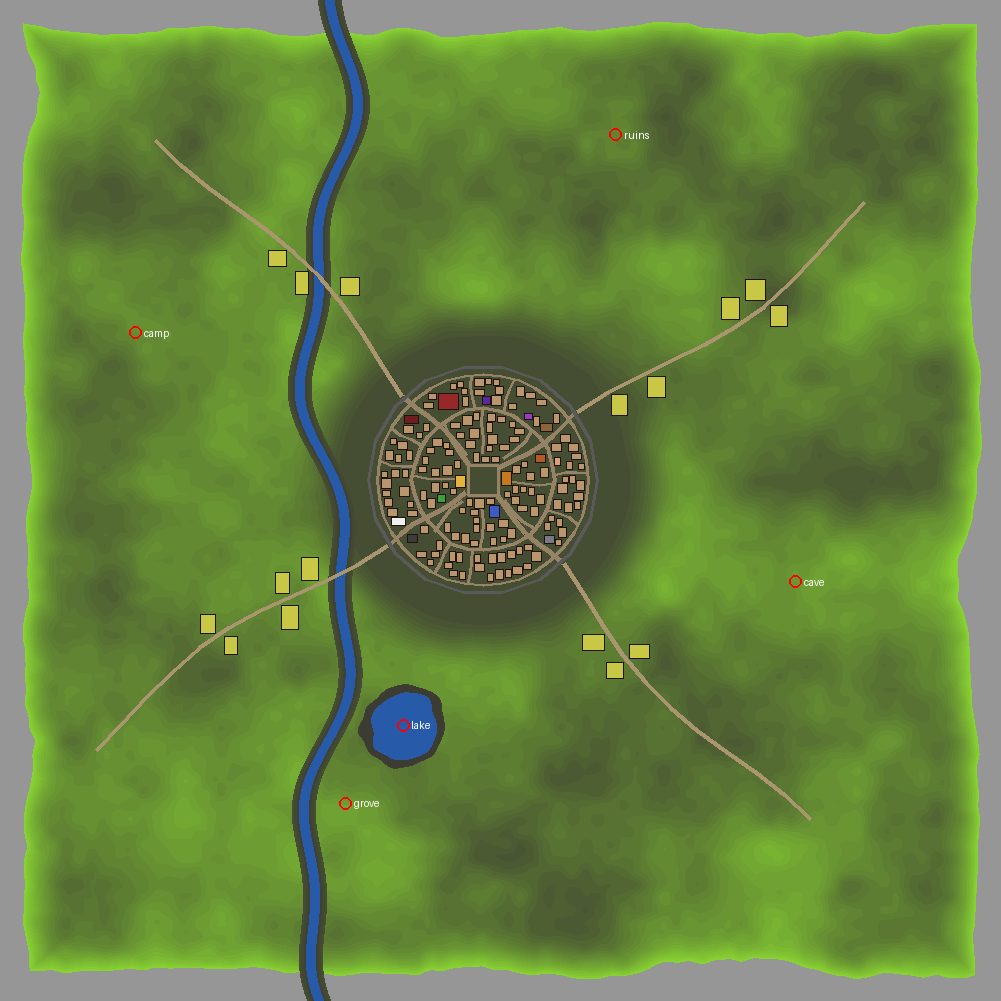
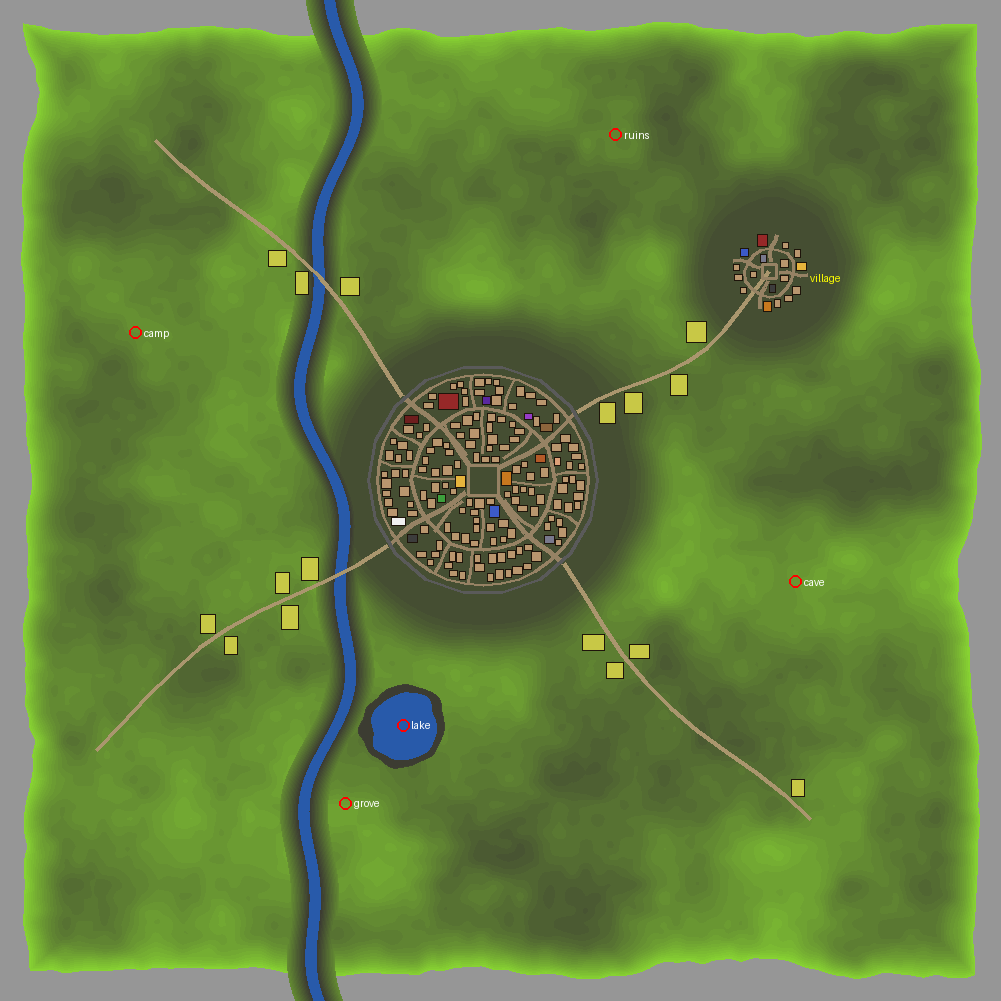
Add a village with its own required buildings; gentler river banks

diff --git a/tools/worldgen.py b/tools/worldgen.py
@@ -62,6 +62,7 @@ class Plan:
         self.blds: list[dict] = []           # buildings
         self.farms: list[tuple] = []         # (x0, z0, x1, z1)
         self.pois: dict[str, tuple] = {}
+        self.village = None
 
     # ------------------------------------------------------------ terrain
 
@@ -73,13 +74,14 @@ class Plan:
         hills = 0.6 * vnoise(x, z, 96, 11, s) + 0.3 * vnoise(x, z, 37, 23, s) + 0.1 * vnoise(x, z, 13, 37, s)
         de = min(x, z, self.S - 1 - x, self.S - 1 - z)
         mount = max(0.0, (70 - de) / 70) ** 2 * 38
-        dc = math.hypot(x - self.cx, z - self.cz)
-        t = min(1.0, max(0.0, (dc - self.R - 20) / 60))
-        k = smooth(t)
+        k = 1.0
+        for (sx, sz, sr) in self.flats():
+            dc = math.hypot(x - sx, z - sz)
+            k = min(k, smooth(min(1.0, max(0.0, (dc - sr - 20) / 60))))
         h = 51 + (hills * 20 + mount) * k + (1 - k) * 1
         dr = abs(x - self.river_x(z))
-        if dr < 12:
-            bank = 48 + dr * 0.35
+        if dr < 24:
+            bank = 48 + (dr - 5) * 0.75
             h = min(h, bank) if dr >= 5 else 45 + dr * 0.3
         lx, lz, lr = self.pois.get("lake", (0, 0, 0))
         if lr:
@@ -87,6 +89,33 @@ class Plan:
             if dl < 1.25:
                 h = min(h, 44 + dl * 4.5)
         return round(h)
+
+    def flats(self):
+        out = [(self.cx, self.cz, self.R)]
+        if self.village:
+            out.append((self.village[0], self.village[1], self.village[2]))
+        return out
+
+    def plan_village(self):
+        """The village sits at the end of the country road that points away
+        from every point of interest."""
+        best, bk = -1, 0
+        for k in range(4):
+            ang = self.rot + k * 90 + (hsh(k, 77, self.seed) % 25) - 12
+            dmin = 999
+            for name, (x, z, r) in self.pois.items():
+                a2 = math.degrees(math.atan2(z - self.cz, x - self.cx))
+                d = abs((ang - a2 + 180) % 360 - 180)
+                dmin = min(dmin, d)
+            # Not across the river (west of town).
+            if math.cos(math.radians(ang)) < -0.5:
+                dmin = -1
+            if dmin > best:
+                best, bk = dmin, k
+        ang = math.radians(self.rot + bk * 90 + (hsh(bk, 77, self.seed) % 25) - 12)
+        reach = min(self.cx, self.cz, self.S - self.cx, self.S - self.cz) - 60
+        d = self.wall_r(ang) + min(reach * 0.62, 240)
+        self.village = (self.cx + math.cos(ang) * d, self.cz + math.sin(ang) * d, 40, bk)
 
     # ------------------------------------------------------------ roads
 
@@ -129,6 +158,8 @@ class Plan:
             ex, ez = cx + ux * (gr + reach * 0.85), cz + uz * (gr + reach * 0.85)
             ex = min(max(ex, 40), self.S - 40)
             ez = min(max(ez, 40), self.S - 40)
+            if self.village and self.village[3] == i:
+                ex, ez = self.village[0], self.village[1]
             self.curve(gx + ux * 2, gz + uz * 2, ex, ez, 10, 26, 200 + i, 4, "country")
         # Ring street.
         n = 28
@@ -167,6 +198,25 @@ class Plan:
                     ux3, uz3 = math.cos(ang3), math.sin(ang3)
                     self.curve(cx + ux3 * 30, cz + uz3 * 30, cx + ux3 * R * 0.6, cz + uz3 * R * 0.6, 3, 4, 500 + i, 3, "lane")
 
+    def plan_village_roads(self):
+        vx, vz, VR, _ = self.village
+        P = 7
+        for (a, b) in (((-P, -P), (P, -P)), ((P, -P), (P, P)), ((P, P), (-P, P)), ((-P, P), (-P, -P))):
+            self.roads.append((vx + a[0], vz + a[1], vx + b[0], vz + b[1], 3, "vplaza"))
+        for i in range(4):
+            ang = math.radians(self.rot + 45 + i * 90 + (hsh(i, 31, self.seed) % 20) - 10)
+            ux, uz = math.cos(ang), math.sin(ang)
+            self.curve(vx + ux * 10, vz + uz * 10, vx + ux * VR * 0.95, vz + uz * VR * 0.95, 4, 4, 600 + i, 4, "vmain")
+        n = 16
+        ring = []
+        for i in range(n):
+            a = 2 * math.pi * i / n
+            r = VR * 0.62 + 4 * (vnoise(i * 5, 7, 9, 63, self.seed) - 0.5)
+            ring.append((vx + math.cos(a) * r, vz + math.sin(a) * r))
+        for i in range(n):
+            a, b = ring[i], ring[(i + 1) % n]
+            self.roads.append((a[0], a[1], b[0], b[1], 3, "vring"))
+
     def plan_wall(self):
         n = 18
         for i in range(n):
@@ -183,8 +233,16 @@ class Plan:
         t = 0 if L2 == 0 else max(0, min(1, ((px - x1) * dx + (pz - z1) * dz) / L2))
         return math.hypot(px - (x1 + dx * t), pz - (z1 + dz * t))
 
-    def rect_ok(self, x0, z0, x1, z1, inside=True):
+    def rect_ok(self, x0, z0, x1, z1, inside=True, sid=1):
         cx, cz = self.cx, self.cz
+        if sid == 2:
+            vx, vz, VR, _ = self.village
+            mx, mz = (x0 + x1) / 2, (z0 + z1) / 2
+            if inside and max(math.hypot(px - vx, pz - vz) for px, pz in ((x0, z0), (x1, z0), (x0, z1), (x1, z1))) > VR:
+                return False
+            if abs(mx - vx) < 9 + (x1 - x0) / 2 and abs(mz - vz) < 9 + (z1 - z0) / 2:
+                return False
+            return self.rect_free(x0, z0, x1, z1)
         pts = [(x0, z0), (x1, z0), (x0, z1), (x1, z1), ((x0 + x1) / 2, (z0 + z1) / 2),
                ((x0 + x1) / 2, z0), ((x0 + x1) / 2, z1), (x0, (z0 + z1) / 2), (x1, (z0 + z1) / 2)]
         if inside:
@@ -194,6 +252,11 @@ class Plan:
                     return False
         if abs((x0 + x1) / 2 - cx) < 17 + (x1 - x0) / 2 and abs((z0 + z1) / 2 - cz) < 17 + (z1 - z0) / 2:
             return False
+        return self.rect_free(x0, z0, x1, z1)
+
+    def rect_free(self, x0, z0, x1, z1):
+        pts = [(x0, z0), (x1, z0), (x0, z1), (x1, z1), ((x0 + x1) / 2, (z0 + z1) / 2),
+               ((x0 + x1) / 2, z0), ((x0 + x1) / 2, z1), (x0, (z0 + z1) / 2), (x1, (z0 + z1) / 2)]
         for (a, b, c, d, w, kind) in self.roads:
             lim = w / 2 + 0.6
             for px, pz in pts:
@@ -228,16 +291,16 @@ class Plan:
             facing = "north" if nz > 0 else "south"
         return x0, z0, x0 + bw - 1, z0 + bd - 1, facing
 
-    def try_lot(self, a, b, c, dd, rw, t, side, w, d, btype, h, inside=True):
+    def try_lot(self, a, b, c, dd, rw, t, side, w, d, btype, h, inside=True, sid=1):
         x0, z0, x1, z1, facing = self.lot_rect(a, b, c, dd, rw, t, side, w, d)
-        if not self.rect_ok(x0, z0, x1, z1, inside):
+        if not self.rect_ok(x0, z0, x1, z1, inside, sid):
             return None
         bld = {"type": btype, "x0": x0, "z0": z0, "x1": x1, "z1": z1, "facing": facing,
-               "floors": 1 + (h // 37) % 3}
+               "floors": 1 + (h // 37) % 3, "sid": sid}
         self.blds.append(bld)
         return bld
 
-    def place_along(self, kinds, btype, w, d, salt, t_from=0.0, t_to=1.0, tries=60, inside=True):
+    def place_along(self, kinds, btype, w, d, salt, t_from=0.0, t_to=1.0, tries=60, inside=True, sid=1):
         """Finds a lot for a w x d building fronting a road of one of the
         kinds; returns the building or None."""
         segs = [r for r in self.roads if r[5] in kinds]
@@ -248,7 +311,7 @@ class Plan:
             a, b, c, dd, rw, kind = segs[h % len(segs)]
             t = t_from + (t_to - t_from) * ((h // 7) % 100) / 100
             side = 1 if (h // 701) % 2 else -1
-            bld = self.try_lot(a, b, c, dd, rw, t, side, w, d, btype, h, inside)
+            bld = self.try_lot(a, b, c, dd, rw, t, side, w, d, btype, h, inside, sid)
             if bld:
                 return bld
         return None
@@ -291,6 +354,32 @@ class Plan:
                         pos += w + 1
                     else:
                         pos += 2
+        # The village: its own six required buildings and houses.
+        vspecial = [("keep", 13, 11), ("guild", 11, 9), ("inn", 11, 9), ("library", 9, 9), ("armory", 9, 7), ("blacksmith", 9, 7)]
+        for i, (bt, w, d) in enumerate(vspecial):
+            b = self.place_along(("vplaza", "vmain"), bt, w, d, 3000 + i, 0, 1, 200, sid=2)
+            if b is None:
+                b = self.place_along(("vring", "vmain"), bt, w, d, 3100 + i, 0, 1, 300, sid=2)
+            if b is not None:
+                b["floors"] = 2
+        for si, seg in enumerate(list(self.roads)):
+            a, b, c, dd, rw, kind = seg
+            if kind not in ("vmain", "vring", "vplaza"):
+                continue
+            L = math.hypot(c - a, dd - b)
+            for side in (1, -1):
+                pos = 1.0
+                while pos < L - 3:
+                    h = hsh(si * 2 + (side > 0), int(pos), self.seed + 4)
+                    w = 7 + (h % 2) * 2
+                    d = 7 + ((h // 3) % 2) * 2
+                    t = (pos + w / 2) / L
+                    if t > 1:
+                        break
+                    if self.try_lot(a, b, c, dd, rw, t, side, w, d, "house", h, True, 2):
+                        pos += w + 2
+                    else:
+                        pos += 2
         # Farms outside: along the country roads near the gates.
         nf = 0
         for k in range(60):
@@ -303,7 +392,8 @@ class Plan:
                 nf += 1
             if b:
                 dc = math.hypot((b["x0"] + b["x1"]) / 2 - self.cx, (b["z0"] + b["z1"]) / 2 - self.cz)
-                if dc < self.R + 10 or abs((b["x0"] + b["x1"]) / 2 - self.river_x((b["z0"] + b["z1"]) / 2)) < 16:
+                dv = math.hypot((b["x0"] + b["x1"]) / 2 - self.village[0], (b["z0"] + b["z1"]) / 2 - self.village[1])
+                if dc < self.R + 10 or dv < self.village[2] + 14 or abs((b["x0"] + b["x1"]) / 2 - self.river_x((b["z0"] + b["z1"]) / 2)) < 16:
                     self.blds.remove(b)
                     nf -= 1
         return n
@@ -323,8 +413,10 @@ class Plan:
 
     def run(self):
         self.plan_pois()
+        self.plan_village()
         self.plan_wall()
         self.plan_roads()
+        self.plan_village_roads()
         houses = self.plan_lots()
         return houses
 
@@ -359,12 +451,18 @@ def draw(plan: Plan, out: Path):
     for name, (x, z, r) in plan.pois.items():
         d.ellipse((x - 6, z - 6, x + 6, z + 6), outline=(255, 0, 0), width=2)
         d.text((x + 8, z - 6), name, fill=(255, 255, 255))
+    vx, vz, VR, _ = plan.village
+    d.text((vx + VR, vz), "village", fill=(255, 255, 0))
     out.parent.mkdir(parents=True, exist_ok=True)
     img.save(out)
     # A close-up of the town.
     R = plan.R + 20
     img.crop((plan.cx - R, plan.cz - R, plan.cx + R, plan.cz + R)).resize((R * 6, R * 6), Image.NEAREST).save(
         out.with_name("town.png"))
+    vx, vz, VR, _ = plan.village
+    V = VR + 25
+    img.crop((int(vx - V), int(vz - V), int(vx + V), int(vz + V))).resize((V * 8, V * 8), Image.NEAREST).save(
+        out.with_name("village.png"))
 
 
 def main():
